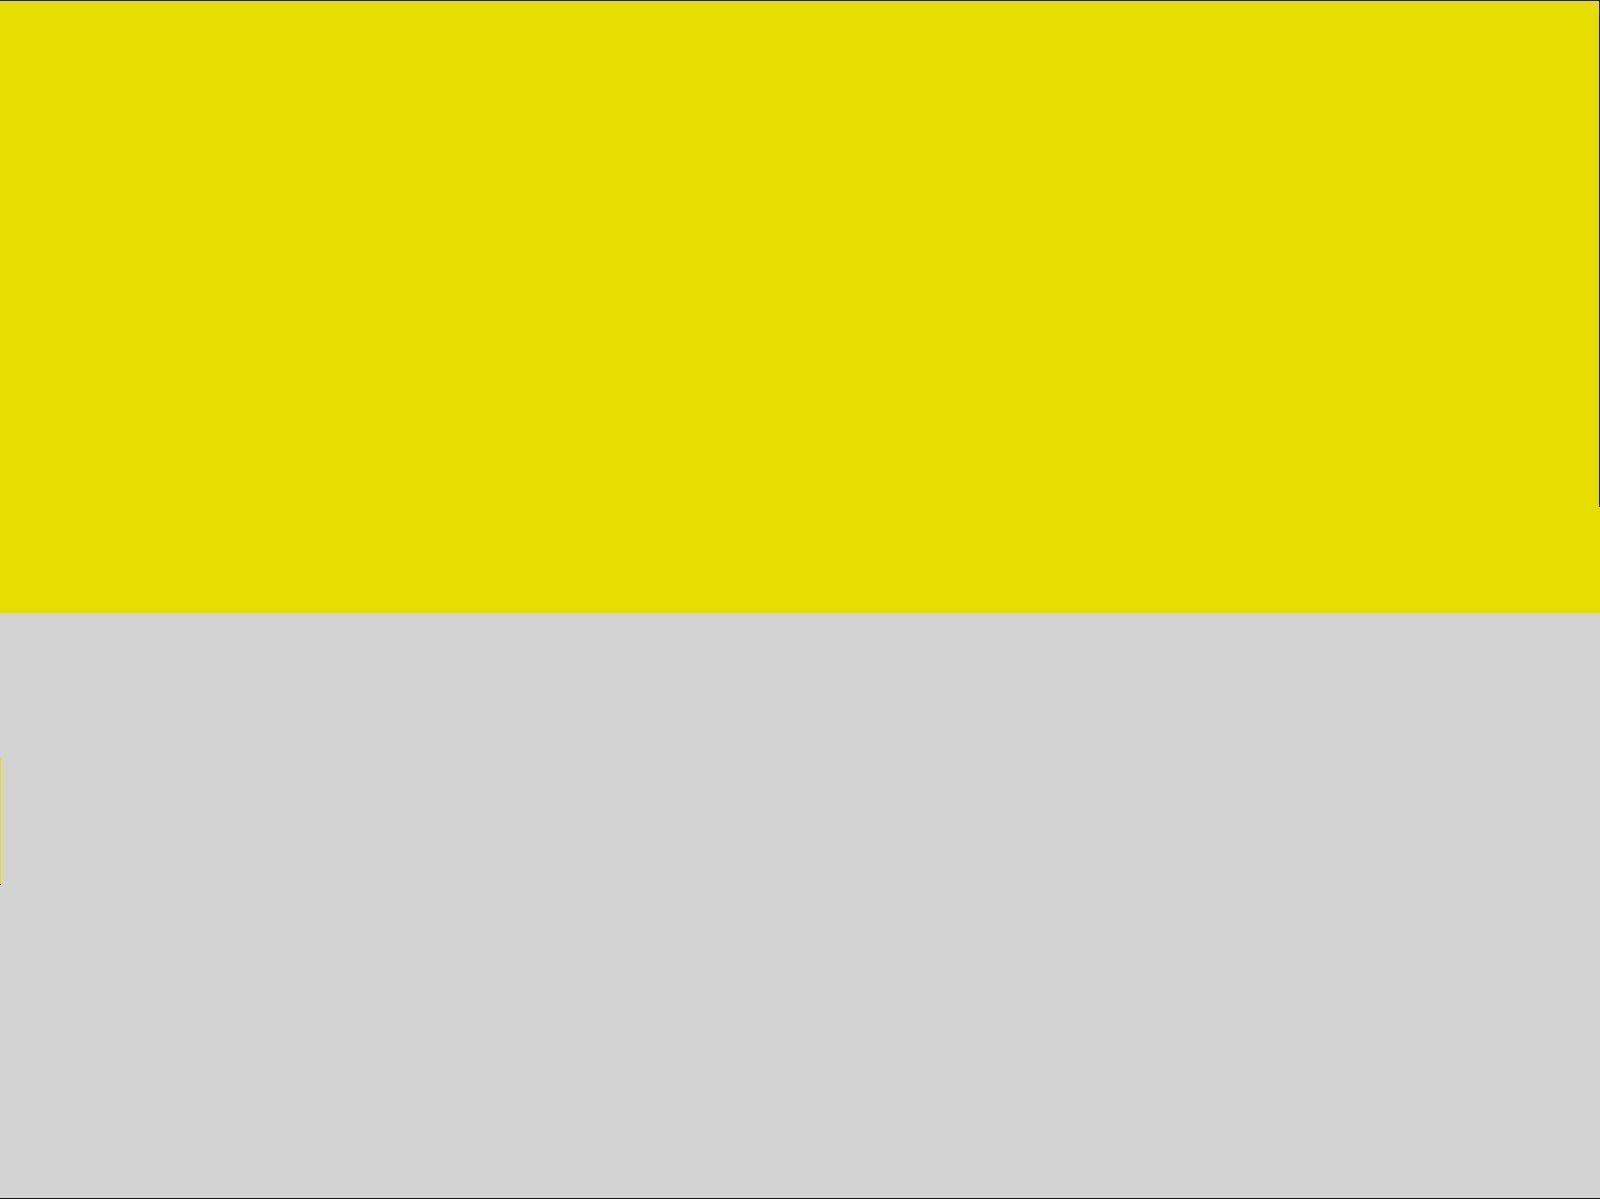
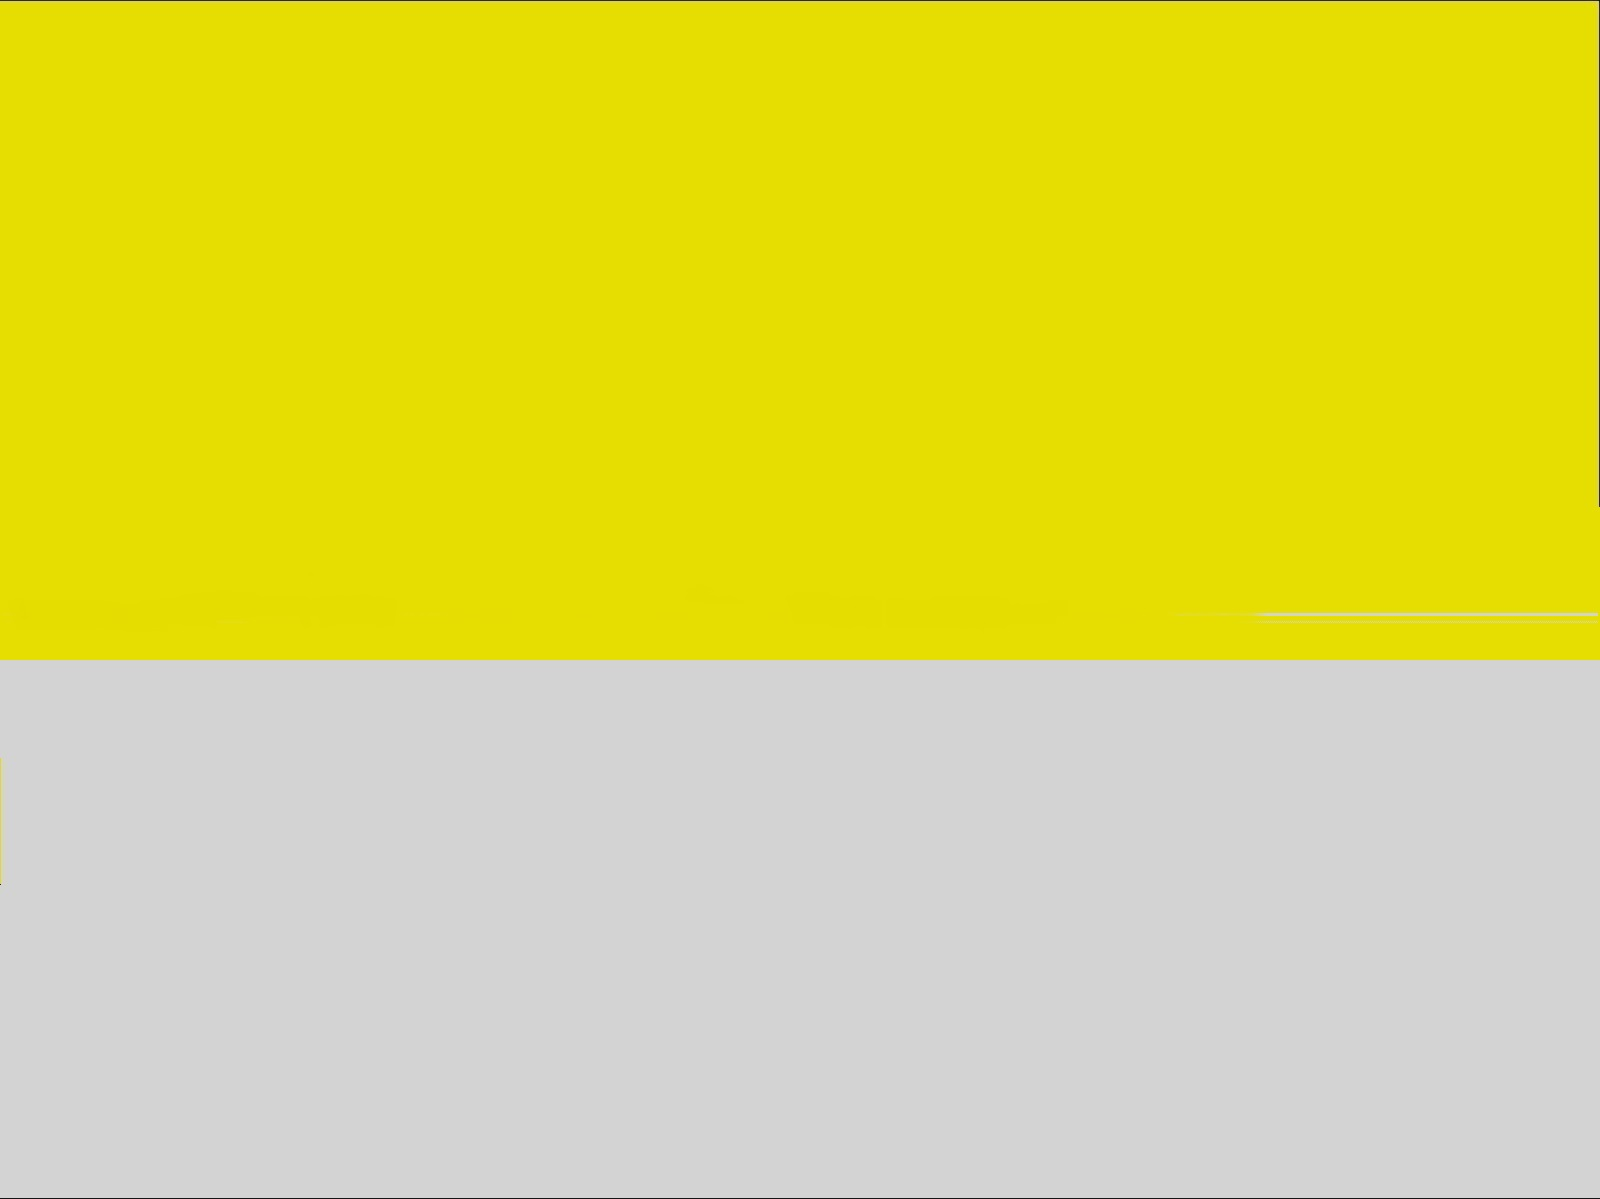
Update wie immer auf discord

Changed region(s): [[0.0, 0.4937, 1.0, 0.5555]]

diff --git a/main/main_01/src/objects/PowerStation.js b/main/main_01/src/objects/PowerStation.js
@@ -193,11 +193,12 @@ export default class PowerStation extends THREE.Group {
          */
 
         const towerBumpMaterial = new THREE.MeshStandardMaterial({
-            color: 0xe5de00,
+            //color: 0xe5de00,
             flatShading: false,
             roughness: 0.0,
             metalness: 0.15,
-            bumpMap: new THREE.TextureLoader().load('src/images/newBump.jpeg'),
+            bumpMap: new THREE.TextureLoader().load('src/images/BigBump.jpeg'),
+            map: new THREE.TextureLoader().load('src/images/TurbMap.jpg'),
             bumpScale: 0.1
         })
 
